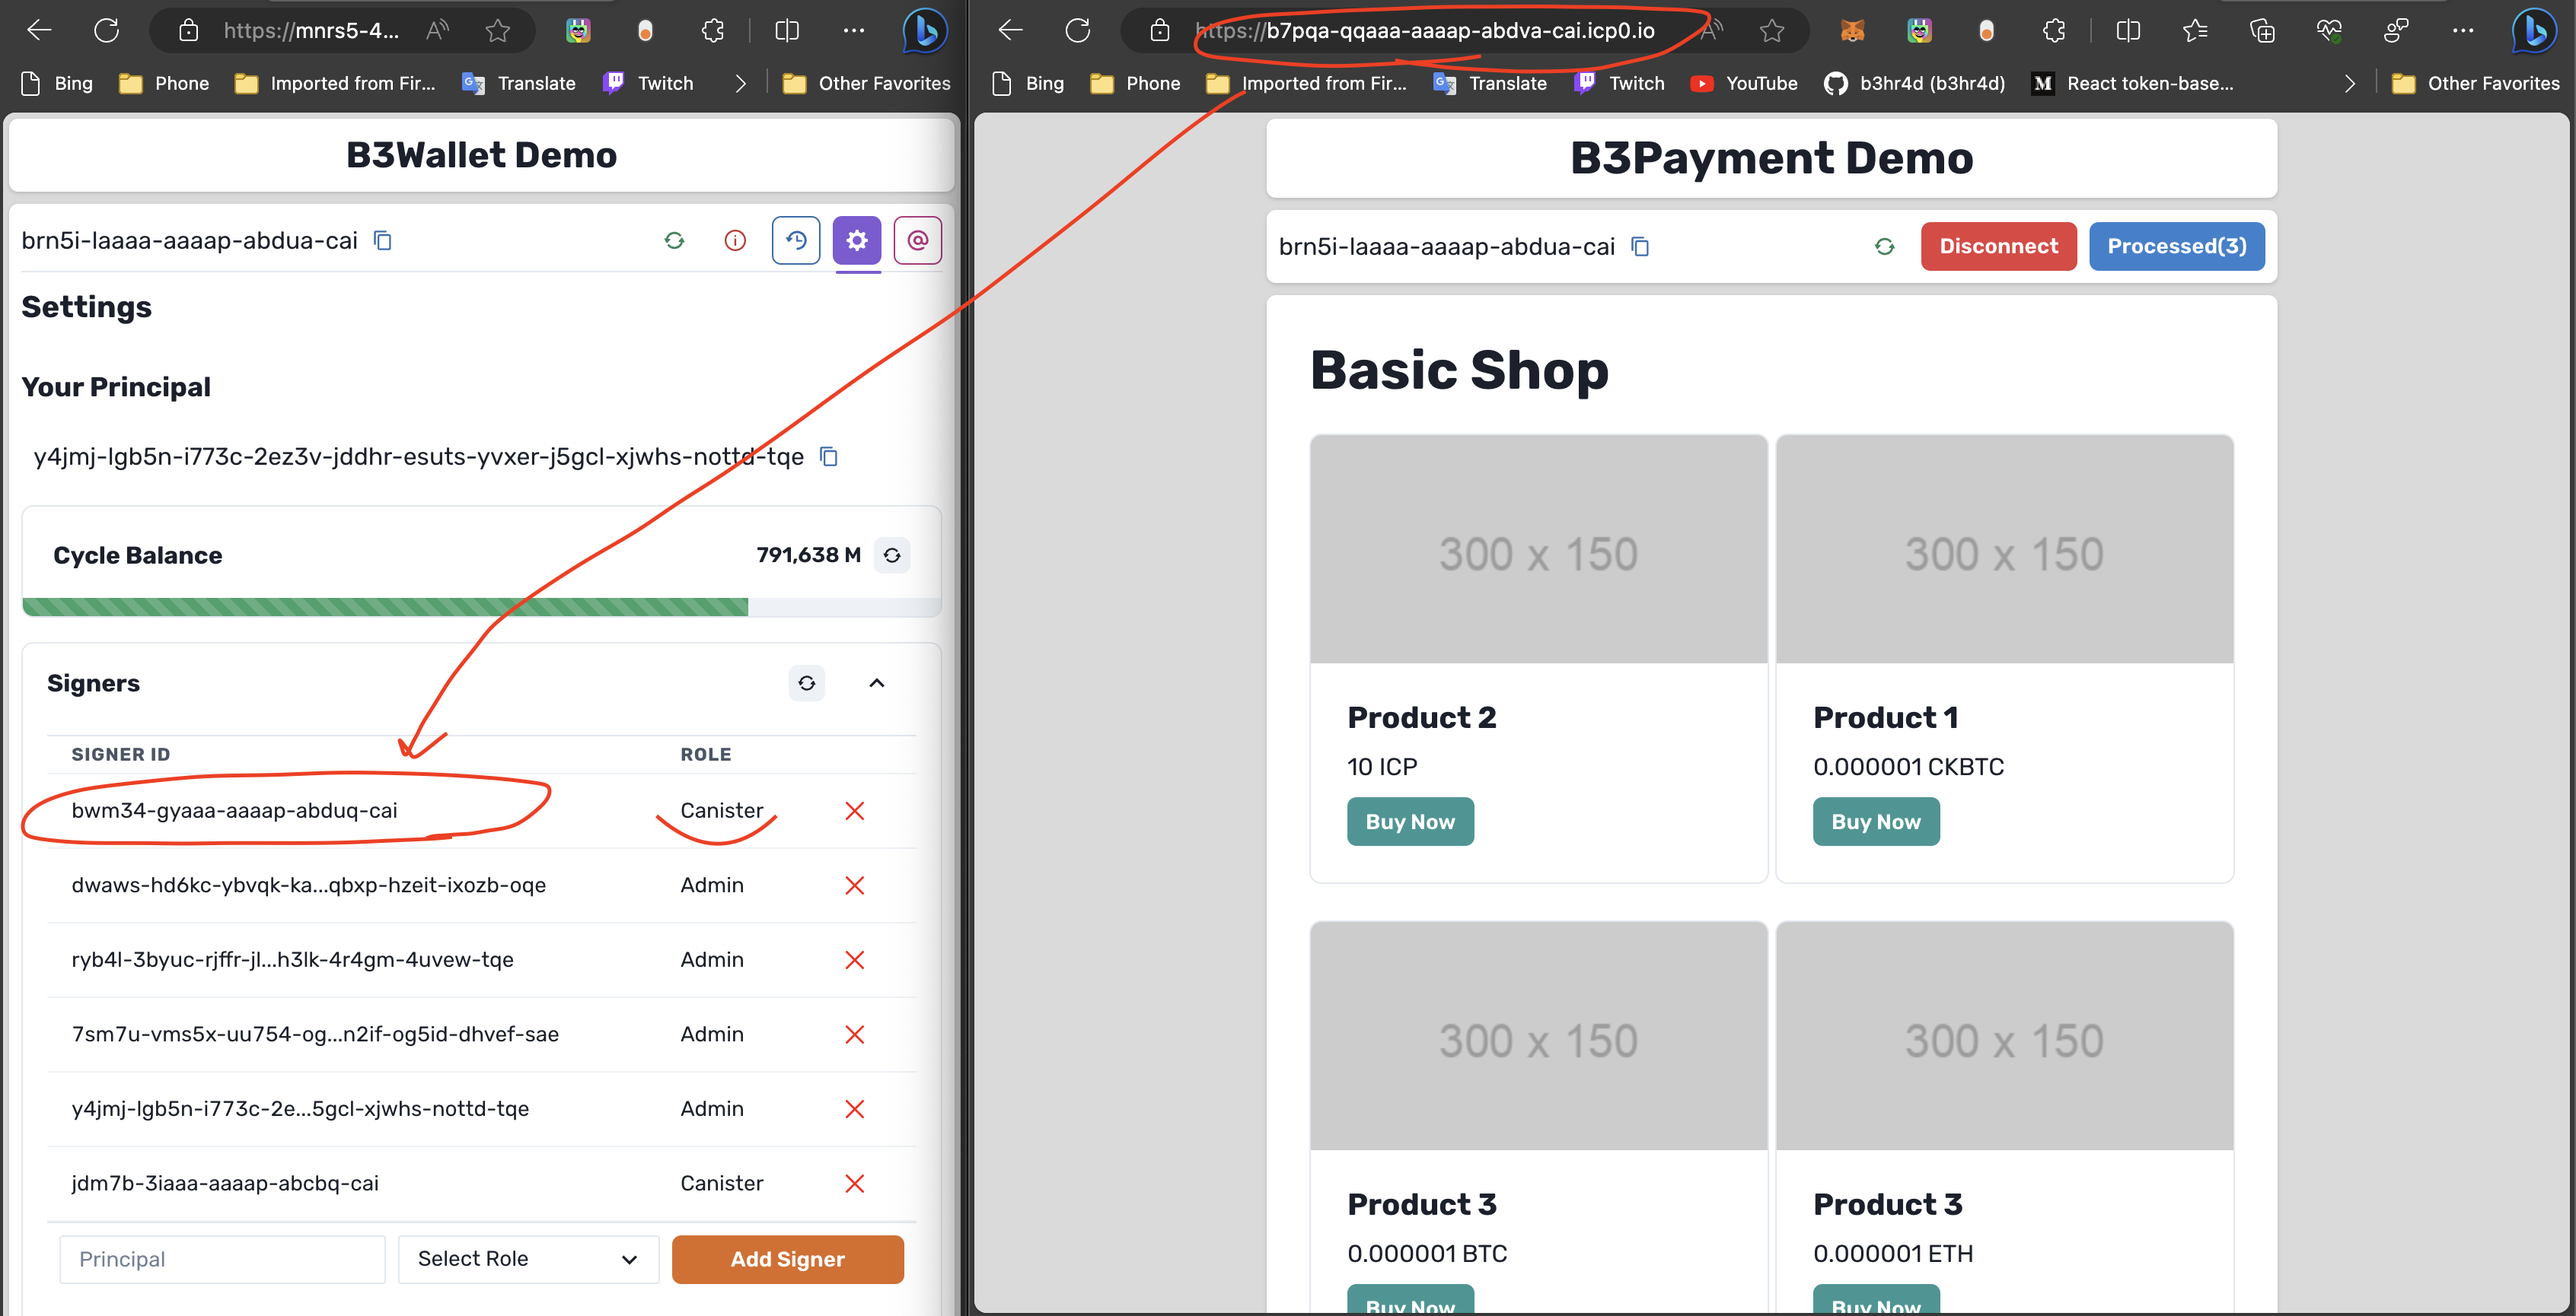
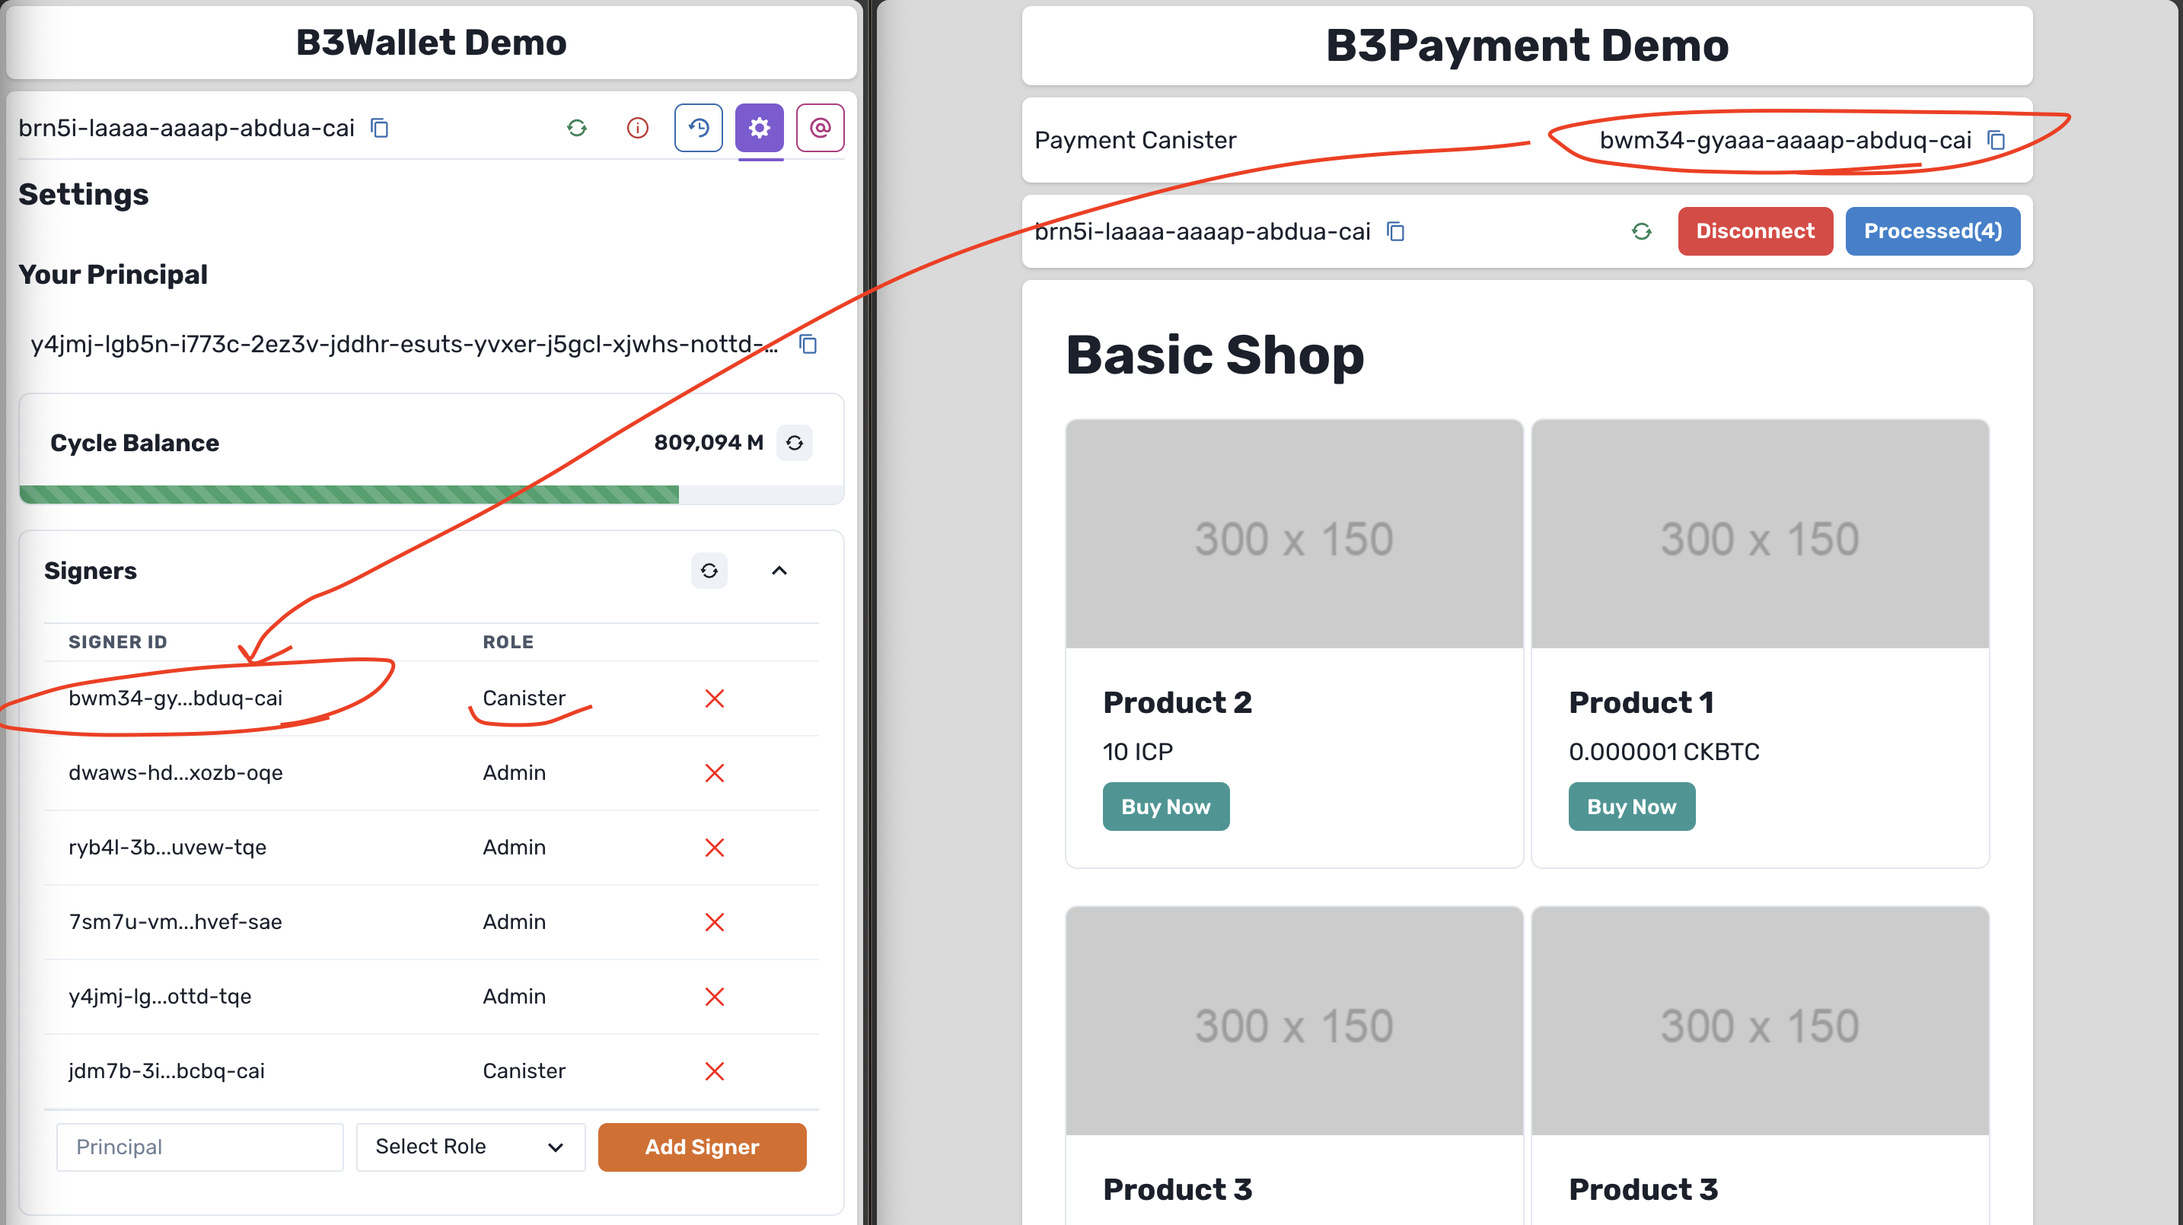
fix readme and test

diff --git a/payment/src/pages/index.tsx b/payment/src/pages/index.tsx
@@ -74,6 +74,9 @@ function HomePage() {
   }, [toast])
 
   const reuqest_connect = async (canisterId: Principal) => {
+    if (!canisterId) {
+      return
+    }
     const connectStatus = await paymentActor?.is_connected(canisterId)
 
     if (connectStatus) {
@@ -194,6 +197,9 @@ function HomePage() {
   }
 
   const getRequests = async (requestId: bigint) => {
+    if (!walletCanisterId) {
+      return
+    }
     try {
       setLoading(true)
       await paymentActor.check_processed_request(walletCanisterId, requestId)
@@ -212,6 +218,9 @@ function HomePage() {
     }
   }
   const checkProcessedRequests = async () => {
+    if (!walletCanisterId) {
+      return
+    }
     try {
       let processsed = await paymentActor.check_processed_requests(
         walletCanisterId
@@ -249,6 +258,9 @@ function HomePage() {
   }
 
   const checkPendingRequests = async () => {
+    if (!walletCanisterId) {
+      return
+    }
     try {
       let requestIds: any = localStorage.getItem("requestIds")
 
@@ -306,6 +318,14 @@ function HomePage() {
         <title>B3Payment</title>
       </Head>
       <Header />
+      <Card p={2} mb={2}>
+        <Stack direction="row" spacing="2" justify="space-between">
+          <Text size="lg" textAlign="center" my={2}>
+            Payment Canister
+          </Text>
+          <Address address={B3_PAYMENT_CANISTER_ID} />
+        </Stack>
+      </Card>
       <Stack as="main" minH="100px" position="relative" justify="space-between">
         {loading && <Loading title="Loading Wallet" />}
         {paymentActor ? (

diff --git a/backend/lib/b3_helper_lib/src/subaccount.rs b/backend/lib/b3_helper_lib/src/subaccount.rs
@@ -361,10 +361,7 @@ mod test {
             ])
         );
 
-        assert_eq!(
-            subaccount.to_hex(),
[1 lines of base64/hex data omitted]
-        );
+        assert_eq!(subaccount.to_hex(), "ff0000000000000001");
 
         let subaccount = Subaccount::from_hex(
[1 lines of base64/hex data omitted]
@@ -397,10 +394,7 @@ mod test {
             ])
         );
 
-        assert_eq!(
-            subaccount.to_hex(),
[1 lines of base64/hex data omitted]
-        );
+        assert_eq!(subaccount.to_hex(), "aa0000000000000001");
     }
 
     #[test]
